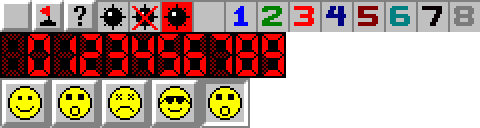
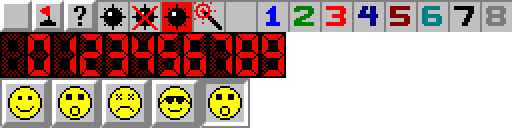
Mines revealed by fairies are marked with a wand.

diff --git a/src/Grid.js b/src/Grid.js
@@ -43,8 +43,11 @@ function Grid({minefield:mf, mfComplete, setNumFlags, setIsWorried, hasExploded,
       else
         return '-64px';
     }
-    if (state === '-')
+    if (state === '|') {
       return '-192px';
+    }
+    if (state === '-')
+      return '-224px';
     if (state !== '.') {
       console.log('Error! User cell has undesirable value.');
       return '0px';
@@ -57,7 +60,7 @@ function Grid({minefield:mf, mfComplete, setNumFlags, setIsWorried, hasExploded,
       console.log('Error! Cell has neither a mine nor a valid digit.', val);
       return '0px';
     }
-    return -(192 + 32 * digit) + 'px';
+    return -(224 + 32 * digit) + 'px';
   }, [mf, getStateXY, hasExploded, isSuccess]);
 
   const pointerDown = useCallback((x, y) => {
@@ -79,7 +82,7 @@ function Grid({minefield:mf, mfComplete, setNumFlags, setIsWorried, hasExploded,
         // Immediately cycle through [empty, flag, ?]
         const cycle = ' f?';
         const idx = cycle.indexOf(state);
-        if (state === 'f') setNumFlags(num => num - 1);
+        if (state === 'f' || state === '|') setNumFlags(num => num - 1);
         if (idx !== -1) setStateXY(x, y, cycle[(idx + 1)%3]);
         if (state === ' ') setNumFlags(num => num + 1);
       }
@@ -103,7 +106,8 @@ function Grid({minefield:mf, mfComplete, setNumFlags, setIsWorried, hasExploded,
           // Do it only if flag count matches.
           let flagCount = 0;
           mf.grid.forEachNeighbor(x, y, (xx, yy) => {
-            if (getStateXY(xx, yy) === 'f') flagCount++;
+            const state = getStateXY(xx, yy);
+            if (state === 'f' || state === '|') flagCount++;
           });
           reveal = flagCount === mf.grid.getXY(x, y);
         }

diff --git a/src/App.js b/src/App.js
@@ -162,13 +162,15 @@ function App() {
     let touchedMine = false;
     active.forEach(([x, y]) => {
       if (mf.grid.getXY(x, y) === '*')
-        touchedMine = true;
+        touchedMine = [x, y];
     });
-    if (touchedMine) {
+    if (touchedMine !== false) {
       // Only allow undos if there are at least 5 flags placed.
       if (undosLeft > 0 && numFlags >= 5) {
           setUndosLeft(val => val - 1);
         active.forEach(([x, y]) => setStateXY(x, y, ' '));
+        setStateXY(...touchedMine, '|');
+        setNumFlags(f => f + 1);
         setShowFairyDialog(true);
         return;
       }
